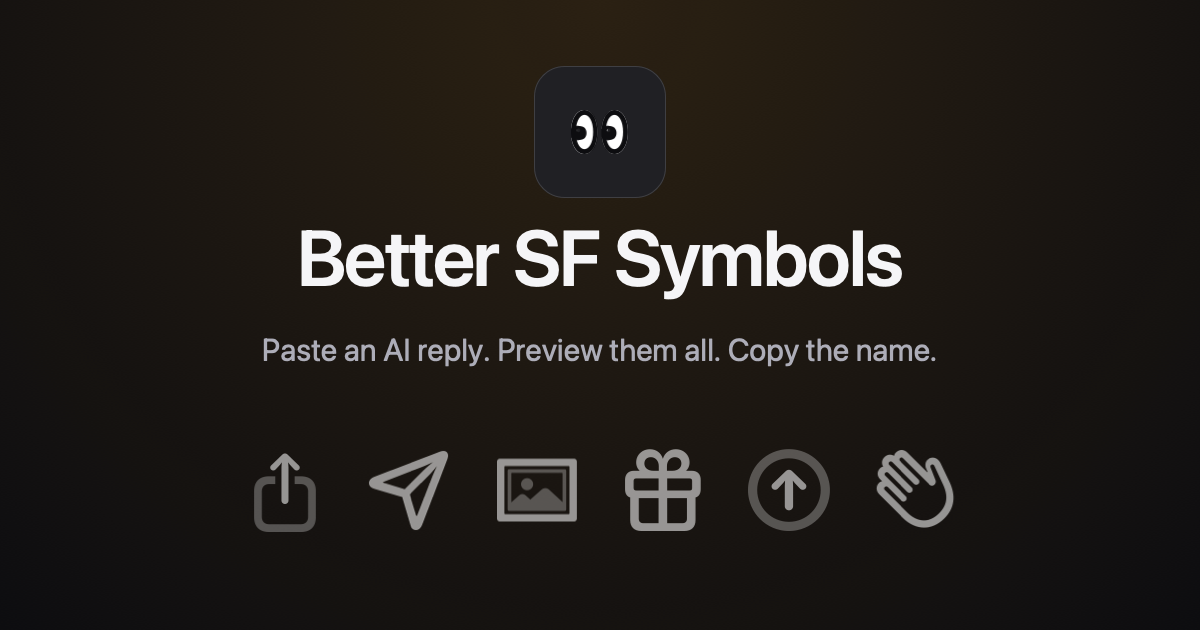
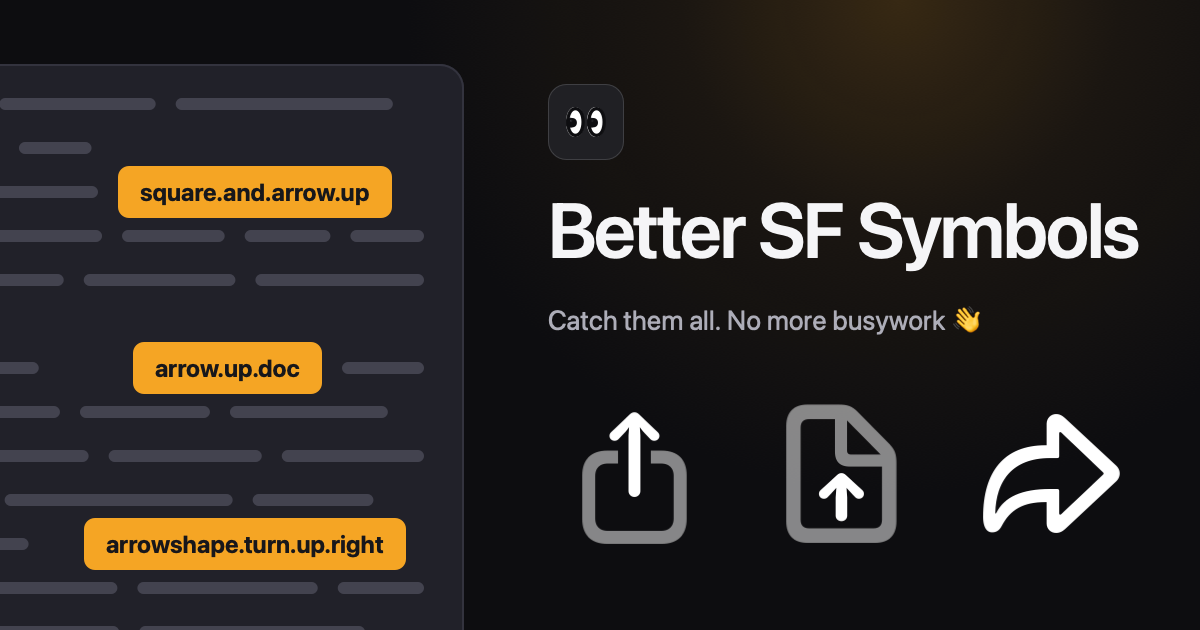
Share card: the names on the left, the symbols they turn into on the right
The card was a centred logo — mark, wordmark, a sentence of its own, and a
band of six symbols along the bottom. It said what the product is called,
not what it does.

It is now the site's own reading order turned sideways: on the left a
redacted AI reply with three symbol names highlighted out of it, on the
right the wordmark and those three symbols drawn for real. The reply is
cropped by the left and bottom edges on purpose — it is a fragment of
something longer, and a card that fitted the whole reply inside a tidy box
would be claiming the AI only ever says three words.

The card no longer writes a sentence of its own. It prints brand.tagline
from app/messages.ts verbatim, so the header and the share card cannot
drift into saying two different things.

Three things measured rather than copied off the mock:

- The wordmark's size is solved against the width of the symbol row, not
  hard-coded. The mock was set in Inter; the system font is narrower, and
  at a fixed 70pt the two edges of the block missed each other by 50px.
- Chip widths come from label.size() for the same reason — a hard-coded
  width clips the name out of its own highlight.
- The glow needed three stops, not two. Clipping a two-stop gradient to an
  ellipse left a visible seam curving across the card; letting it fill the
  canvas instead fixed the seam but browned the whole right half, which is
  the same "desaturated warm reads as dirt" trap already documented for
[…]

Changed region(s): [[0.0, 0.0905, 0.9558, 1.0], [0.6167, 0.6333, 0.9558, 0.8746], [0.4625, 0.181, 0.5242, 0.2413]]

diff --git a/scripts/render_sfsymbols.swift b/scripts/render_sfsymbols.swift
@@ -241,9 +241,6 @@ func renderFavicon(name: String, destination: URL, side: Int = 512) throws {
 // "eyes" is the base; renderFavicon draws "eyes.inverse" over it as the outline.
 try renderFavicon(name: "eyes", destination: root.appendingPathComponent("public/favicon.png"))
 
-/// The link preview card. Drawn here rather than in a design tool so it cannot
-/// drift from the product: same mark, same palette, same symbols the site
-/// actually ships. 1200x630 is the size every chat app crops to.
 /// Re-encodes a fully painted bitmap without its alpha channel.
 ///
 /// The share card covers every one of its 756,000 pixels, so that channel is a
@@ -293,6 +290,22 @@ func withoutAlpha(_ source: NSBitmapImageRep) -> NSBitmapImageRep {
     return target
 }
 
+/// The link preview card. Drawn here rather than in a design tool so it cannot
+/// drift from the product: same mark, same palette, same symbols the site
+/// actually ships. A PNG exported from a design file would be a second thing in
+/// `public/` that nothing can regenerate, and it would go stale in silence.
+/// 1200x630 is the size every chat app crops to.
+///
+/// The composition is the site's own reading order turned sideways: on the left
+/// the thing somebody else handed you — a reply, redacted, with three symbol
+/// names selected out of it — and on the right what it turns into, the name of
+/// this tool and those three symbols drawn for real. The reply is cropped by
+/// the left and bottom edges on purpose. It is a fragment of something longer,
+/// and a card that fitted the whole reply inside a tidy box would be claiming
+/// the AI only ever says three words.
+///
+/// Every number below is in top-left coordinates, because that is how the
+/// layout was measured; `place` flips them into AppKit's bottom-left.
 func renderOpenGraph(destination: URL) throws {
     let width = 1200
     let height = 630
@@ -319,29 +332,57 @@ func renderOpenGraph(destination: URL) throws {
     NSGraphicsContext.current = context
     context.imageInterpolation = .high
 
-    // The default theme's --bg and --body-glow (ink & amber), not midnight's —
-    // one card is served to everyone, so it can only be the palette a reader
-    // gets before they have picked one. **Re-run this script if the default
-    // theme's raw values ever move**; nothing else notices.
-    //
-    // The glow is the card's own number, like the symbol band's — a share card
-    // gets recompressed and shrunk to timeline size, and the page's 0.1 does not
-    // survive that. But it takes the **accent** hue (245,165,36 = --accent-rgb)
-    // rather than --body-glow's dimmed (150,118,70), and that is the whole
-    // lesson from the first attempt: a dimmed warm is a *desaturated* warm, and
-    // desaturated warm lifted 2.5x does not read as a lamp, it reads as dirt.
-    // Midnight got away with the same lift because blue-grey at that level still
-    // reads as a dark blue room. Saturation is what buys the alpha here.
-    NSColor(srgbRed: 0x0d / 255, green: 0x0d / 255, blue: 0x10 / 255, alpha: 1).setFill()
+    func place(_ x: CGFloat, _ y: CGFloat, _ w: CGFloat, _ h: CGFloat) -> NSRect {
+        NSRect(x: x, y: canvas.height - y - h, width: w, height: h)
+    }
+    func ink(_ rgb: UInt32, _ alpha: CGFloat = 1) -> NSColor {
+        NSColor(
+            srgbRed: CGFloat((rgb >> 16) & 0xff) / 255,
+            green: CGFloat((rgb >> 8) & 0xff) / 255,
+            blue: CGFloat(rgb & 0xff) / 255,
+            alpha: alpha
+        )
+    }
+
+    // The default theme's raw values (ink & amber), not midnight's — one card is
+    // served to everyone, and a reader who has not picked a palette gets this
+    // one. **Re-run this script if those raw values ever move**; nothing else
+    // notices. `--panel` and the two greys below are the same ones the site's
+    // own input field is painted with.
+    let bg = ink(0x0d0d10)          // --bg
+    let panel = ink(0x212129)       // the reply's surface
+    let hairline = ink(0x33333e)    // its border
+    let redacted = ink(0x43434f)    // the blanked-out words
+    let accent = ink(0xf5a524)      // --accent-rgb, the selection
+    let selectionInk = ink(0x17171b)
+    let bodyText = ink(0xf5f5f7)    // --text
+    let mutedText = ink(0xadadb8)   // --muted
+
+    bg.setFill()
     NSRect(origin: .zero, size: canvas).fill()
-    if let glow = NSGradient(colors: [
-        NSColor(srgbRed: 245 / 255, green: 165 / 255, blue: 36 / 255, alpha: 0.13),
-        NSColor(srgbRed: 245 / 255, green: 165 / 255, blue: 36 / 255, alpha: 0),
-    ]) {
-        // Fill the whole canvas and push the centre to the top edge. Drawing
-        // into a smaller rect clips the fade before it reaches zero, which
-        // leaves a hard horizontal seam straight across the card.
-        glow.draw(in: NSRect(origin: .zero, size: canvas), relativeCenterPosition: NSPoint(x: 0, y: 1))
+
+    // The card's alpha is higher than the page's for the same reason the symbols
+    // are: this gets recompressed and shrunk to timeline size, and the page's
+    // 0.1 does not survive that. It takes the **accent** hue rather than
+    // --body-glow's dimmed (150,118,70), and that is the whole lesson from the
+    // first attempt: a dimmed warm is a *desaturated* warm, and desaturated warm
+    // lifted does not read as a lamp, it reads as dirt. Saturation is what buys
+    // the alpha. It sits over the wordmark, not over the empty corner — in the
+    // corner the same wash had nothing to light and read as a stain.
+    // Three stops, not two. A two-stop radial across the full canvas falls off
+    // so slowly that the whole right half goes brown — and a wash that broad
+    // stops reading as light and starts reading as dirt, which is the same trap
+    // the dimmed hue fell into. Reaching zero at 45% of the radius keeps the
+    // glow tight around the wordmark; it still has to reach zero *inside* the
+    // canvas, because clipping the fade — with a smaller rect, or an ellipse —
+    // leaves a visible seam curving across the card.
+    let glowStops: [(NSColor, CGFloat)] = [
+        (ink(0xf5a524, 0.18), 0.0),
+        (ink(0xf5a524, 0.06), 0.20),
+        (ink(0xf5a524, 0.0), 0.45),
+    ]
+    if let glow = NSGradient(colorsAndLocations: glowStops[0], glowStops[1], glowStops[2]) {
+        glow.draw(in: NSRect(origin: .zero, size: canvas), relativeCenterPosition: NSPoint(x: 0.5, y: 1))
     }
 
     func draw(symbol: String, rect: NSRect, color: NSColor, weight: NSFont.Weight = .bold) {
@@ -365,78 +406,175 @@ func renderOpenGraph(destination: URL) throws {
         )
     }
 
-    // The mark, on the same rounded tile as the favicon. The fill is what
+    // ---- the reply, cropped by the left and bottom edges ----
+
+    let boxX: CGFloat = -164
+    let boxY: CGFloat = 64
+    let boxW: CGFloat = 628
+    let boxH: CGFloat = 640
+    let boxRect = place(boxX, boxY, boxW, boxH)
+    let boxPath = NSBezierPath(roundedRect: boxRect, xRadius: 24, yRadius: 24)
+    panel.setFill()
+    boxPath.fill()
+
+    // Deterministic: the blanked-out words are noise, but a card that reshuffled
+    // itself on every render would make every rebuild a diff.
+    var seed: UInt64 = 4471
+    func random() -> CGFloat {
+        seed = seed &* 6364136223846793005 &+ 1442695040888963407
+        return CGFloat((seed >> 33) & 0xffffff) / CGFloat(0xffffff)
+    }
+
+    func bar(_ x: CGFloat, _ centerY: CGFloat, _ w: CGFloat) {
+        redacted.setFill()
+        let r = place(boxX + x, boxY + centerY - 6, w, 12)
+        NSBezierPath(roundedRect: r, xRadius: 6, yRadius: 6).fill()
+    }
+
+    func fillRange(_ centerY: CGFloat, _ from: CGFloat, _ to: CGFloat) {
+        var x = from
+        while to - x > 60 {
+            var w = 70 + random() * 170
+            if w > to - x { w = to - x }
+            bar(x, centerY, w)
+            x += w + 20
+            if random() < 0.15 { break }
+        }
+    }
+
+    let chipFont = NSFont.systemFont(ofSize: 24, weight: .bold)
+    let chipHeight = (chipFont.ascender - chipFont.descender).rounded() + 24
+
+    /// One highlighted symbol name. Right-aligned, because the left end of every
+    /// line is off the canvas.
+    func chip(_ name: String, _ centerY: CGFloat, rightEdge: CGFloat) -> (x: CGFloat, width: CGFloat) {
+        let label = NSAttributedString(string: name, attributes: [
+            .font: chipFont,
+            .foregroundColor: selectionInk,
+        ])
+        // Measured here rather than copied off the mock: the mock was set in
+        // Inter, the system font is wider, and a hard-coded width clips the name
+        // out of its own highlight.
+        let labelSize = label.size()
+        let w = labelSize.width.rounded() + 44
+        let x = rightEdge - w
+        let r = place(boxX + x, boxY + centerY - chipHeight / 2, w, chipHeight)
+        accent.setFill()
+        NSBezierPath(roundedRect: r, xRadius: 11, yRadius: 11).fill()
+        label.draw(at: NSPoint(x: r.minX + 22, y: r.midY - labelSize.height / 2))
+        return (x, w)
+    }
+
+    let names = ["square.and.arrow.up", "arrow.up.doc", "arrowshape.turn.up.right"]
+    let chipRows: [Int: Int] = [2: 0, 6: 1, 10: 2]
+    let chipRightEdges: [CGFloat] = [556, 486, 570]
+    let contentRight = boxW - 40
+    // Lines start past the cropped edge, so they read as continuing rather than
+    // as a column that happens to begin at the frame.
+    let bleedLeft: CGFloat = -40
+
+    NSGraphicsContext.saveGraphicsState()
+    boxPath.addClip()
+    for row in 0 ... 13 {
+        let centerY = 40 + 44 * CGFloat(row)
+        guard let index = chipRows[row] else {
+            fillRange(centerY, bleedLeft, contentRight)
+            continue
+        }
+        let placed = chip(names[index], centerY, rightEdge: chipRightEdges[index])
+        if placed.x - bleedLeft > 70 { fillRange(centerY, bleedLeft, placed.x - 20) }
+        if contentRight - (placed.x + placed.width) > 70 {
+            fillRange(centerY, placed.x + placed.width + 20, contentRight)
+        }
+    }
+    NSGraphicsContext.restoreGraphicsState()
+
+    hairline.setStroke()
+    let boxStroke = NSBezierPath(roundedRect: boxRect.insetBy(dx: 1, dy: 1), xRadius: 23, yRadius: 23)
+    boxStroke.lineWidth = 2
+    boxStroke.stroke()
+
+    // ---- what it turns into ----
+
+    let columnX: CGFloat = 548
+    // Three symbols and two gaps; the wordmark above is solved to this width.
+    let glyphSide: CGFloat = 174
+    let glyphPitch: CGFloat = 207
+    let glyphRowWidth = glyphSide * 3 + (glyphPitch - glyphSide) * 2
+
+    // The mark, on the same rounded tile as the header's. The fill is what
     // `.brand-mark` composites to in the browser — rgba(255,255,255,0.04) over
-    // --shell #17171b — so the card's mark and the header's are the same
-    // colour, not two guesses at "slightly lighter than the ground".
-    let tile = NSRect(x: canvas.width / 2 - 66, y: 432, width: 132, height: 132)
-    NSColor(srgbRed: 0x20 / 255, green: 0x20 / 255, blue: 0x24 / 255, alpha: 1).setFill()
-    NSBezierPath(roundedRect: tile, xRadius: 30, yRadius: 30).fill()
-    NSColor(srgbRed: 1, green: 1, blue: 1, alpha: 0.14).setStroke()
-    let tileStroke = NSBezierPath(roundedRect: tile.insetBy(dx: 0.5, dy: 0.5), xRadius: 30, yRadius: 30)
+    // --shell #17171b — so the card's mark and the site's are the same colour,
+    // not two guesses at "slightly lighter than the ground".
+    let tile = place(columnX, 84, 76, 76)
+    ink(0x202024).setFill()
+    NSBezierPath(roundedRect: tile, xRadius: 18, yRadius: 18).fill()
+    NSColor(white: 1, alpha: 0.14).setStroke()
+    let tileStroke = NSBezierPath(roundedRect: tile.insetBy(dx: 0.5, dy: 0.5), xRadius: 18, yRadius: 18)
     tileStroke.lineWidth = 1
     tileStroke.stroke()
     // Two-tone, like the favicon and the header mark: one mark everywhere.
-    draw(symbol: "eyes", rect: tile.insetBy(dx: 26, dy: 40), color: .white)
+    let eyes = tile.insetBy(dx: 11.4, dy: 20)
+    draw(symbol: "eyes", rect: eyes, color: .white)
     // Same colour the web mark's second layer takes: `.brand-glyph
     // .symbol-glyph + .symbol-glyph { color: var(--bg) }`.
-    draw(
-        symbol: "eyes.inverse",
-        rect: tile.insetBy(dx: 26, dy: 40),
-        color: NSColor(srgbRed: 0x0d / 255, green: 0x0d / 255, blue: 0x10 / 255, alpha: 1)
-    )
+    draw(symbol: "eyes.inverse", rect: eyes, color: bg)
 
-    func centered(_ text: String, font: NSFont, color: NSColor, tracking: CGFloat, baseline: CGFloat) {
-        let paragraph = NSMutableParagraphStyle()
-        paragraph.alignment = .center
-        let attributed = NSAttributedString(string: text, attributes: [
+    func write(_ string: String, font: NSFont, color: NSColor, tracking: CGFloat, x: CGFloat, bottom: CGFloat) {
+        NSAttributedString(string: string, attributes: [
             .font: font,
             .foregroundColor: color,
             .kern: tracking,
-            .paragraphStyle: paragraph,
-        ])
-        let size = attributed.size()
-        attributed.draw(in: NSRect(x: 0, y: baseline, width: canvas.width, height: size.height + 8))
+        ]).draw(at: NSPoint(x: x, y: canvas.height - bottom))
     }
 
-    centered(
-        "Better SF Symbols",
-        font: NSFont.systemFont(ofSize: 78, weight: .semibold),
-        // --text, not pure white: the page's brightest type is #f5f5f7.
-        color: NSColor(srgbRed: 0xf5 / 255, green: 0xf5 / 255, blue: 0xf7 / 255, alpha: 1),
-        tracking: -1.6,
-        baseline: 320
+    // Sized to the row of symbols underneath rather than to a number: the two
+    // are one block, and the mock was set in Inter while this renders in the
+    // system font, which is narrower. Solving for the width keeps them flush
+    // whatever the system font does next.
+    let wordmark = "Better SF Symbols"
+    let wordmarkTracking: CGFloat = -2
+    func wordmarkWidth(_ size: CGFloat) -> CGFloat {
+        NSAttributedString(string: wordmark, attributes: [
+            .font: NSFont.systemFont(ofSize: size, weight: .semibold),
+            .kern: wordmarkTracking,
+        ]).size().width
+    }
+    var wordmarkSize: CGFloat = 70
+    for _ in 0 ..< 6 {
+        wordmarkSize *= glyphRowWidth / wordmarkWidth(wordmarkSize)
+    }
+    write(
+        wordmark,
+        font: .systemFont(ofSize: wordmarkSize.rounded(), weight: .semibold),
+        color: bodyText,
+        tracking: wordmarkTracking,
+        x: columnX,
+        bottom: 274
     )
-    // Three beats, and the last one is the correction: it said "Copy the code"
-    // for months while the product copied the *name* by default — the card was
-    // the last place still promising the wrong thing (CLAUDE.md, first line).
-    // The middle beat carries the English title's phrase, so the tab, the
-    // header and the share card all say one thing.
-    centered(
-        "Paste an AI reply. Preview them all. Copy the name.",
-        font: NSFont.systemFont(ofSize: 31, weight: .regular),
-        // --muted.
-        color: NSColor(srgbRed: 0xad / 255, green: 0xad / 255, blue: 0xb8 / 255, alpha: 1),
+    // The site's own tagline, `brand.tagline` in app/messages.ts, word for word.
+    // The card used to run a line of its own ("Paste an AI reply…") and that is
+    // one more place for the product to say two different things about itself.
+    // English only, and not because the audience is: og:image is fetched by the
+    // platform's crawler, not the reader's browser, and cached per URL — so a
+    // per-locale card would be picked by whoever shared the link first and then
+    // shown to everybody after them.
+    write(
+        "Catch them all. No more busywork 👋",
+        font: .systemFont(ofSize: 27, weight: .regular),
+        color: mutedText,
         tracking: 0,
-        baseline: 254
+        x: columnX,
+        bottom: 336
     )
 
-    // A band of the real thing, so the card shows the product's subject. This
-    // is the only element on the card that says "symbols" rather than "a name",
-    // and at alpha 0.30 it did not survive being recompressed by X or WeChat
-    // and shrunk to timeline size — the card read as a logo, not as a tool.
-    let band = ["square.and.arrow.up", "paperplane", "photo.artframe", "gift", "arrow.up.circle", "hand.wave"]
-    let cell: CGFloat = 96
-    let spacing: CGFloat = 30
-    let bandWidth = CGFloat(band.count) * cell + CGFloat(band.count - 1) * spacing
-    var x = canvas.width / 2 - bandWidth / 2
-    for symbol in band {
-        draw(
-            symbol: symbol,
-            rect: NSRect(x: x, y: 92, width: cell, height: cell),
-            color: NSColor(srgbRed: 1, green: 1, blue: 1, alpha: 0.55)
-        )
-        x += cell + spacing
+    // The three names from the reply, drawn. 0.927 is the same fraction the mask
+    // pipeline uses inside its 192px canvas, so a symbol here is exactly the size
+    // the same symbol is on a result tile.
+    let bleed = glyphSide * (1 - 0.927) / 2
+    for (index, name) in names.enumerated() {
+        let cell = place(columnX + CGFloat(index) * glyphPitch, 386, glyphSide, glyphSide)
+        draw(symbol: name, rect: cell.insetBy(dx: bleed, dy: bleed), color: .white)
     }
 
     context.flushGraphics()
